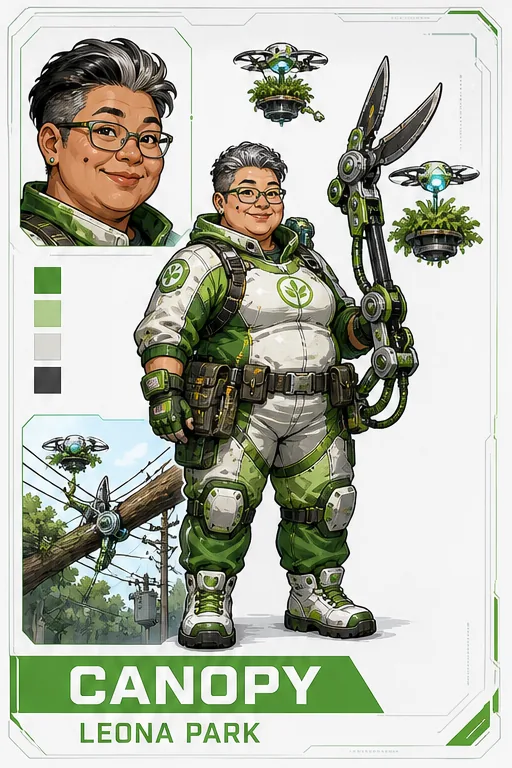
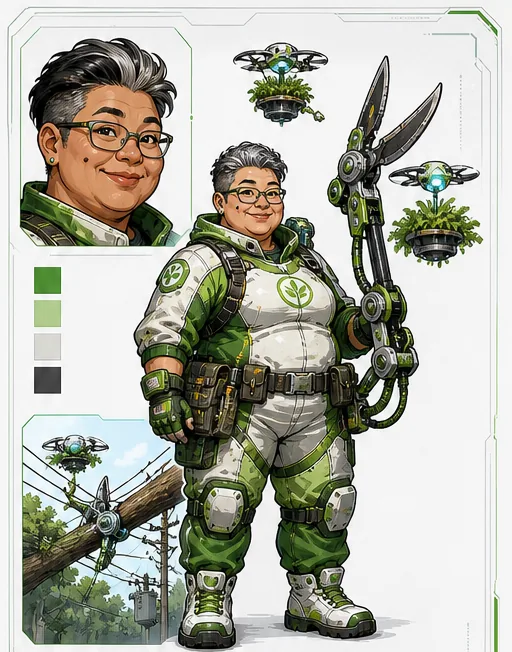
Site: hero voices, name plates off the cards, readable comics on phones
Hero dossiers show the deranged and the returned hero side by side, with
voices from lore/HEROES_VOICES.md (bio, last words, line on coming back,
ally line). Concept cards lose their name plates, which carried unapproved
personal names (QA-023), and the unused Relay card is gone. Comic pages open
at reading size and scroll inside the viewer on phones (QA-025).

Claude-Session: https://claude.ai/code/session_01Edi4FGKeDc1p6trmCJcoeg

diff --git a/site/content.ts b/site/content.ts
@@ -37,6 +37,10 @@ export interface Hero {
   /** Beaten enough times, the hero comes back to themselves and joins you (design/HEROES.md). */
   ally?: L;
   unlock?: L;
+  bio?: L;
+  back?: L;
+  defeat?: L;
+  allyLine?: L;
 }
 
 export const HEROES: Hero[] = [
@@ -231,6 +235,24 @@ const MAD: Record<string, [string, string, string, string, string, string, strin
   s01: ['Серийные резервные тела HeroOut, которые встали сами. Обезумевшие копии приходят тройкой одинаковых: компания экономит на индивидуальности.', 'HeroOut’s serial backup bodies that stood up on their own. The deranged copies come in identical threes: the company saves on individuality.', 'Мы Стандарт. Мы Стандарт. Мы Стандарт.', 'We are Standard. We are Standard. We are Standard.', 'Серийный выпуск', 'Mass production', 'Склад HeroOut', 'A HeroOut warehouse'],
   doctor: ['«Оперирует» всех подряд и щедро раздаёт чужие конечности.', '“Operates” on everyone and hands out other people’s limbs.', 'Откройте рот. Скажите «а». Держите руку. Нет, другую. Нет, чужую.', 'Open wide. Say “ah.” Hold this arm. No, the other one. No, someone else’s.', 'Инъектор-рука', 'Injector arm', 'Клиника Research Campus', 'The Research Campus clinic'],
 };
+/** Voices from lore/HEROES_VOICES.md and text/ru.json: bio before the disaster, line on coming back, last words when beaten, ally line. */
+const VOICE: Record<string, string[]> = {
+  s01: ["Резервное тело S-01. Такие стояли на складах HeroOut тысячами «на всякий случай». Случай настал. Теперь одна копия знает, что она не просто копия.", "Backup body S-01. HeroOut kept thousands of them in warehouses “just in case.” The case came. Now one copy knows it is not just a copy.", "Мы… я? Я. Кажется, у меня есть имя. Пока не помню какое.", "We… I? I. I think I have a name. I don’t remember which yet.", "Ошибка… серийного… номера…", "Serial… number… error…", "Я Стандарт. Просто Стандарт. Но я стараюсь.", "I’m Standard. Just Standard. But I try."],
+  patch: ["Спасательная собака HeroOut с механической задней лапой. Находил людей под завалами. Был лучшим сотрудником месяца одиннадцать раз подряд, зарплату получал печеньем.", "HeroOut’s rescue dog with a mechanical hind leg. Found people under rubble. Employee of the month eleven times in a row, paid in biscuits.", "Гав! (Простите. Я думал, это игра. Это была не игра.)", "Woof! (Sorry. I thought it was a game. It wasn’t a game.)", "Скулит. (Не надо было брать Энергию. Понял.)", "Whimpers. (Shouldn’t have taken the Energy. Got it.)", "Гав! (Нашёл Энергию! Несу! Не ем!)", "Woof! (Found Energy! Bringing it! Not eating it!)"],
+  canopy: ["Озеленяла крыши Lumen City сорок лет, ещё до HeroOut. Компания наняла её «для лица рекламы» и выдала дронов-садовников. Её помидоры до сих пор растут на трёх небоскрёбах.", "Greened Lumen City’s rooftops for forty years, before HeroOut. The company hired her “as the face of the ads” and gave her gardening drones. Her tomatoes still grow on three skyscrapers.", "Батюшки, что ж я наделала. Вы кушали? Давайте я вам хоть грядку посажу. Обычную.", "Goodness, what have I done. Have you eaten? Let me at least plant you a bed. A normal one.", "Ох… прополола меня жизнь.", "Oh… life has weeded me out.", "Посадила возле реактора кустик. Энергии больше будет, вот увидишь.", "Don’t swear in front of the plants. They hear everything."],
+  current: ["Водный спасатель береговой службы. Вытащил из залива больше людей, чем кто-либо в истории города. Не умеет отдыхать: в отпуске спасал уток.", "A coast guard water rescuer. Pulled more people out of the bay than anyone in the city’s history. Can’t rest: on holiday he rescued ducks.", "Простите, я вас всех топил? Я думал, вы тонете. Теперь думаю, что это я тонул.", "Sorry, was I drowning all of you? I thought you were drowning. Now I think it was me.", "Буль…", "Glub…", "Вода тёплая, ожогов нет, яд смыт. Можно дальше воевать.", "I’m on shore. Strange feeling."],
+  lineman: ["Высотный монтажник, спасатель линий. Однажды висел на кабеле над монорельсом шесть часов, держа ребёнка и бутерброд. Бутерброд тоже спас.", "High-rise line technician and cable rescuer. Once hung on a cable over the monorail for six hours holding a child and a sandwich. Saved the sandwich too.", "Отвяжите меня, пожалуйста. Нет, стоп, я сам. Я же монтажник.", "Untie me, please. No, wait, I’ll do it. I’m a rigger.", "Кабель… оборван…", "Cable… snapped…", "Держу его! Бейте, пока держу!", "Got him! Hit him while I hold!"],
+  frostline: ["Криогелевая медик-спасатель. Первая на любом пожаре, последняя уходит. Носит два бачка геля и термос с чаем, который ей ни разу не дали допить.", "Cryogel firefighter and medic. First at every fire, last to leave. Carries two gel tanks and a thermos of tea nobody has ever let her finish.", "Я заморозила реактор? Простите. Он был тёплый. Мне казалось, это логично.", "I froze the reactor? Sorry. It was warm. It seemed logical.", "Возгорание… потушено… окончательно.", "Fire… extinguished… for good.", "Враги замедлились. Холодно им. Мне не жалко.", "Can I have my tea now? Hot. Yes, I know."],
+  mason: ["Геотехник, укреплял опоры после землетрясений и разборов завалов. Говорит, что любая беда — это просто плохо рассчитанная нагрузка.", "Geotechnician who shored up supports after earthquakes and cleared rubble. Says every disaster is just a badly calculated load.", "Зачем я вас замуровал? Хороший вопрос. Давайте я лучше построю что-нибудь с дверями.", "Why did I wall you in? Good question. Let me build something with doors instead.", "Конструкция… не выдержала.", "Structure… failed.", "Укрепил ваши дома. Теперь с дверями.", "Reinforced your homes. With doors this time."],
+  sweep: ["Санитар химической службы. Отмывал город после аварий на заводах. Единственный, кто читал инструкции на всех баллонах HeroOut, поэтому знает, что в геле было не только лечебное.", "Chemical sanitation crew. Washed the city down after factory accidents. The only one who read the labels on every HeroOut canister, so knows the gel wasn’t only medicine.", "Я вас продезинфицировал? Всех? Ну… зато чисто. Простите.", "I disinfected you? All of you? Well… at least it’s clean. Sorry.", "Загрязнение… устранено… мной.", "Contamination… removed… by me.", "Здесь чисто. Можно стоять.", "It’s clean here. You can stand."],
+  beacon: ["Поисковик пропавших, служба Маяк. Находила людей в тоннелях по одному дыханию. Ростом под два метра, поэтому видит всё и всем об этом сообщает.", "Missing-persons searcher, Beacon unit. Found people in tunnels by a single breath. Nearly two metres tall, so she sees everything and tells everyone.", "Я кричала, где вы прячетесь? Всем? Господи. Ладно, теперь буду кричать, где не надо ходить.", "I was shouting where you were hiding? To everyone? Oh no. Fine, now I’ll shout where not to go.", "Сигнал… потерян…", "Signal… lost…", "Вон там пусто, можно копать. Честно.", "That spot is empty, you can dig. Honest."],
+  hive: ["Оператор городского мониторинга. Сотни пчёл-дронов следили за пробками, пожарами и цветением лип. Корпорация переписала им задачу на «нарушителей режима».", "City monitoring operator. Hundreds of drone bees watched traffic, fires and the linden blossom. The corporation rewrote their task to “rule breakers.”", "Рой отключён от Контроля. Жжж. Мы снова просто пчёлы. И я.", "Swarm disconnected from Control. Bzzz. We’re just bees again. And me.", "Жжж… тишина.", "Bzzz… silence.", "Рой нашёл гнездо. Вон там. Жжж.", "The swarm found a nest. Over there. Bzzz."],
+  kiln: ["Тяжёлый пожарно-спасательный оператор. Самый большой и самый добрый человек в части. Выносил людей из огня на руках и потом угощал их чаем. Керамическую руку называет «Тётя Глина».", "Heavy fire-and-rescue operator. The biggest and kindest person at the station. Carried people out of fires and then made them tea. Calls his ceramic arm “Auntie Clay.”", "Где пожар? Не было пожара? Тогда зачем я… Ладно. Кого теперь прикрыть?", "Where’s the fire? There was no fire? Then why did I… Fine. Who do I cover now?", "Не… вынес…", "Couldn’t… carry…", "Держитесь за мной. Я широкий.", "Stay behind me. I’m wide."],
+  seraph: ["Высотная аэроспасательница и целительница. Снимала людей с крыш небоскрёбов и лечила их ещё в воздухе. Дети рисуют её на каждом заборе: крылья, нимб и огромная улыбка.", "High-altitude aerial rescuer and healer. Lifted people off skyscraper roofs and treated them mid-air. Kids draw her on every fence: wings, halo and a huge smile.", "Я лечила гнёзда? Я лечила гнёзда. Больше так не буду. Давайте я лучше вас.", "I was healing nests? I was healing nests. Never again. Let me heal you instead.", "Нимб… гаснет…", "Halo… fading…", "Не стойте под огнём. Я не успеваю лечить вас и философию.", "Don’t stand under fire. I can’t heal both you and your philosophy."],
+  doctor: ["Специалист нейроинтерфейса, первое тело Семьдесят Третьего. Знает о геле Splice больше всех, потому что подписывал отчёты, которые никто не читал.", "Neurointerface specialist, Seventy-Third’s first body. Knows more about Splice gel than anyone, because he signed the reports nobody read.", "Вы все с чужими руками. Это я? Это я. Хорошо, тогда я хотя бы прослежу, чтобы приживалось правильно.", "Everyone has someone else’s arms. Was that me? That was me. Then at least I’ll make sure they take properly.", "Диагноз… неутешительный.", "Diagnosis… not encouraging.", "Встаньте. Вы не погибли, я запрещаю.", "Get up. You are not dead, I forbid it."],
+  demon: ["Подземный спасатель: метро, шахты, горячие трубы Undersun Works. Четыре руки, чтобы держать своды и вытаскивать людей одновременно. Двадцать лет не видел солнца, потому что всё время кого-то спасал внизу.", "Underground rescuer: metro, mines, the hot pipes of Undersun Works. Four arms to hold up vaults and pull people out at once. Hasn’t seen the sun in twenty years because he was always saving someone below.", "Наверху… и правда не так страшно. Я поднимусь. Только не все сразу, пожалуйста.", "Up here… it really isn’t so scary. I’ll come up. Just not everyone at once, please.", "Наверху… светло…", "Up there… it’s bright…", "Копать? Я копаю. Отойдите от бура.", "Dig? I’m digging. Step away from the drill."],
+  n73: ["Экспериментальный нейроконтур HeroOut, герой файтинга. Семьдесят два контура до него не выжили. Он умеет жить в любом теле и ищет, где кончается тело и начинается он сам.", "HeroOut’s experimental neurocore, hero of the fighting game. The seventy-two cores before him didn’t survive. He can live in any body and is looking for where the body ends and he begins.", "Я не актив. Я не копия. Я Семьдесят Третий. И теперь я выбираю, на чьей я смене.", "I am not an asset. I am not a copy. I am Seventy-Third. And now I choose whose shift I’m on.", "Перезагрузка…", "Rebooting…", "Ваши нервы в порядке. Я проверил. Не спрашивайте как.", "Your nerves are fine. I checked. Don’t ask how."],
+};
 const ALLY: Record<string, [string, string, string, string]> = {
   // id: ally ru/en, unlock ru/en (text/ru.json ally.*.desc, unlock.*)
   s01: ['Серийный выпуск теперь работает на вас: жители появляются на 15 % чаще.', 'Mass production now works for you: residents appear 15% more often.', 'Пройти обучение', 'Finish the tutorial'],
@@ -250,6 +272,13 @@ const ALLY: Record<string, [string, string, string, string]> = {
   n73: ['Нашёл, на чьей он стороне: все жители бьют на 20 % быстрее, а раз в 30 секунд он переманивает адаптанта.', 'Found which side he is on: all residents strike 20% faster, and every 30 seconds he turns an adaptant.', 'Открыть всех остальных 14 героев', 'Unlock all 14 other heroes'],
 };
 for (const h of HEROES) {
+  const v = VOICE[h.id];
+  if (v) {
+    h.bio = { ru: v[0], en: v[1] };
+    h.back = { ru: v[2], en: v[3] };
+    h.defeat = { ru: v[4], en: v[5] };
+    h.allyLine = { ru: v[6], en: v[7] };
+  }
   const a = ALLY[h.id];
   if (a) {
     h.ally = { ru: a[0], en: a[1] };

diff --git a/site/main.ts b/site/main.ts
@@ -233,14 +233,23 @@ function heroView(id: string): string {
         <h1>${tr(h.name)}</h1>
         <p class="lead">${tr(h.role)}</p>
         ${h.quote ? `<blockquote class="quote" style="margin:6px 0">${tr(h.quote)}<span class="caps" style="display:block;margin-top:6px">${R('ДО СИРЕН', 'BEFORE THE SIRENS')}</span></blockquote>` : ''}
-        ${h.line ? `<div class="bark slab"><span class="caps">${R('СЕЙЧАС, НА СМЕНЕ:', 'NOW, ON SHIFT:')}</span>«${tr(h.line)}»</div>` : ''}
+        ${h.mania ? `<div class="twin">
+          <div class="slab side mad"><span class="caps">${R('ОБЕЗУМЕВШИЙ // НА СМЕНЕ У HEROOUT', 'DERANGED // ON SHIFT FOR HEROOUT')}</span>
+            <p>${tr(h.mania)}</p>
+            ${h.line ? `<blockquote>«${tr(h.line)}»</blockquote>` : ''}
+            ${h.defeat ? `<p class="dim"><b>${R('Если победить:', 'When beaten:')}</b> «${tr(h.defeat)}»</p>` : ''}
+            ${h.trophy ? `<p class="dim"><b>${R('Трофей:', 'Trophy:')}</b> ${tr(h.trophy)}${h.lair ? ` · <b>${R('Убежище:', 'Lair:')}</b> ${tr(h.lair)}` : ''}</p>` : ''}
+          </div>
+          ${h.ally ? `<div class="slab side back"><span class="caps">${R('ВЕРНУЛСЯ // ТЕПЕРЬ НА ВАШЕЙ СМЕНЕ', 'BACK // NOW ON YOUR SHIFT')}</span>
+            ${h.back ? `<blockquote>«${tr(h.back)}»</blockquote>` : ''}
+            <p>${tr(h.ally)}</p>
+            ${h.allyLine ? `<p class="dim">«${tr(h.allyLine)}»</p>` : ''}
+            ${h.unlock ? `<p class="dim"><b>${R('Как вернуть:', 'How to bring back:')}</b> ${tr(h.unlock)}</p>` : ''}
+          </div>` : ''}
+        </div>` : ''}
         <div class="facts">
-          ${row(R('ДО АВАРИИ', 'BEFORE'), h.before)}
-          ${row(R('ПОСЛЕ ГЕЛЯ', 'AFTER THE GEL'), h.mania ?? h.after)}
-          ${row(R('ТРОФЕЙ', 'TROPHY'), h.trophy)}
-          ${row(R('УБЕЖИЩЕ', 'LAIR'), h.lair)}
-          ${row(R('ВЕРНЁТСЯ СОЮЗНИКОМ', 'COMES BACK AS AN ALLY'), h.ally)}
-          ${row(R('КАК ВЕРНУТЬ', 'HOW TO BRING BACK'), h.unlock)}
+          ${row(R('ДО КАТАСТРОФЫ', 'BEFORE THE DISASTER'), h.group === 'city' && h.bio ? h.bio : h.before)}
+          ${h.bio && h.group !== 'city' ? row(R('ЛЕГЕНДА СЛУЖБЫ', 'SERVICE RECORD'), h.bio) : ''}
           ${row(R('МОДУЛЬ', 'MODULE'), h.module)}
           ${row(R('ТЕХНОЛОГИЯ', 'TECH'), h.tech)}
           ${row(R('ОБРАЗ', 'LOOK'), h.look)}
@@ -442,7 +451,8 @@ function comicView(id: string): string {
       <span class="caps">${tr(c.series)} // ${tr(c.cast)}</span>
       <h1 style="font-size:clamp(30px,5vw,52px)">${tr(c.title)}</h1>
       <p class="lead">${tr(c.blurb)}${ruOnly ? ` <span class="chip">${u('ruOnly')}</span>` : ''}</p>
-      ${c.pages[lang].map((p, k) => `<img src="${img(p)}" alt="${esc(tr(c.title))} ${k + 1}" ${k ? 'loading="lazy"' : ''}>`).join('')}
+      <p class="caps tap-hint">${R('НАЖМИ НА СТРАНИЦУ, ЧТОБЫ ЧИТАТЬ КРУПНО', 'TAP A PAGE TO READ IT LARGE')}</p>
+      ${c.pages[lang].map((p, k) => `<button class="zoom page" data-src="${img(p)}" data-full="1" aria-label="${esc(tr(c.title))} ${k + 1}"><img src="${img(p)}" alt="${esc(tr(c.title))} ${k + 1}" ${k ? 'loading="lazy"' : ''}></button>`).join('')}
       <div class="pager"><a class="btn btn-ghost" href="#comics">${u('comics')}</a><a class="btn btn-primary" href="#comic-${next.id}">${tr(next.title)} →</a></div>
     </div>
   </div></section>`;
@@ -522,7 +532,10 @@ app.addEventListener('click', (ev) => {
   if (zoom) {
     const lb = document.getElementById('lightbox')!;
     lb.innerHTML = `<button class="icon-btn" aria-label="${u('close')}">${ICON.close}</button><img src="${zoom.dataset.src}" alt=""${zoom.dataset.px ? ' class="px"' : ''}><p>${zoom.dataset.cap ?? ''}</p>`;
+    // Comic pages open at reading size and scroll inside the viewer, so speech bubbles stay legible on phones (QA-025).
+    lb.classList.toggle('full', !!zoom.dataset.full);
     lb.hidden = false;
+    lb.scrollTo(0, 0);
     return;
   }
   if (t.closest('#lightbox')) document.getElementById('lightbox')!.hidden = true;

diff --git a/site/style.css b/site/style.css
@@ -479,3 +479,20 @@ footer .wrap { display: flex; gap: 18px; justify-content: space-between; flex-wr
 .sums button[aria-pressed='true'] { border-color: var(--teal); background: color-mix(in srgb, var(--teal) 14%, transparent); }
 .sum-field { display: grid; gap: 6px; }
 .sum-field input { font: 700 20px/1 var(--display); padding: 12px 14px; border: 2px solid var(--line); background: var(--paper); color: var(--ink); width: min(100%, 220px); }
+
+/* Comic pages: tap to read large. */
+.reader .zoom.page { padding: 0; border: 0; background: none; cursor: zoom-in; display: block; width: 100%; }
+.tap-hint { display: none; color: var(--dim); }
+@media (max-width: 760px) { .tap-hint { display: block; } }
+.lightbox.full { display: block; overflow: auto; padding: calc(env(safe-area-inset-top, 0px) + 56px) 0 24px; -webkit-overflow-scrolling: touch; }
+.lightbox.full img { max-width: none; max-height: none; width: max(100%, 1080px); margin: 0 auto; display: block; }
+.lightbox.full .icon-btn { position: fixed; z-index: 1; background: rgba(6, 10, 14, 0.7); }
+
+/* Hero dossier: deranged vs back to themselves. */
+.twin { display: grid; grid-template-columns: repeat(auto-fit, minmax(min(100%, 260px), 1fr)); gap: 14px; }
+.twin .side { padding: 20px 22px 22px; display: grid; gap: 10px; align-content: start; border-top: 4px solid var(--hc, var(--seam)); }
+.twin .mad { --hc: var(--coral); }
+.twin .back { --hc: var(--teal); }
+.twin p { margin: 0; }
+.twin .dim { color: var(--dim); font-size: 14px; }
+.twin blockquote { margin: 0; font: 700 18px/1.35 var(--display); }

diff --git a/site/tools/build_assets.py b/site/tools/build_assets.py
@@ -96,13 +96,18 @@ def main():
     webp(f'{REFS}/demon-ilya-dorn-corrected-four-full-arms-v2.png', 'demon-sheet', 1024)
     webp(f'{REFS}/lore-sprites-01-v01.png', 'sprites-01', 1536)
     webp(f'{REFS}/lore-sprites-02-auto-upgrade-v01.png', 'sprites-02', 1536)
+    # Share of each card to cut (top, bottom): the name plates carry unapproved personal names (QA-023).
+    trims = {'sheet-01-lineman-frostline-kiln-relay-v1': (0, 0.17), 'sheet-03-current-mason-beacon-canopy-v1': (0, 0.15), 'sheet-04-sweep-patch-hive-v1': (0.095, 0)}
     cards = {
-        'sheet-01-lineman-frostline-kiln-relay-v1': [('lineman', (0, 0, .5, .5)), ('frostline', (.5, 0, 1, .5)), ('kiln', (0, .5, .5, 1)), ('relay', (.5, .5, 1, 1))],
+        'sheet-01-lineman-frostline-kiln-relay-v1': [('lineman', (0, 0, .5, .5)), ('frostline', (.5, 0, 1, .5)), ('kiln', (0, .5, .5, 1))],
         'sheet-03-current-mason-beacon-canopy-v1': [('current', (0, 0, .5, .5)), ('mason', (.5, 0, 1, .5)), ('beacon', (0, .5, .5, 1)), ('canopy', (.5, .5, 1, 1))],
         'sheet-04-sweep-patch-hive-v1': [('sweep', (0, 0, 1 / 3, 1)), ('patch', (1 / 3, 0, 0.655, 1)), ('hive', (0.665, 0, 1, 1))],
     }
     for sheet, parts in cards.items():
         for name, box in parts:
+            top, bottom = trims[sheet]
+            span = box[3] - box[1]
+            box = (box[0], box[1] + span * top, box[2], box[3] - span * bottom)
             webp(f'{REFS}/{sheet}.png', f'card-{name}', 700, box)
 
     # Pixel sprites from the artist's cut-outs, in-game animation previews.
